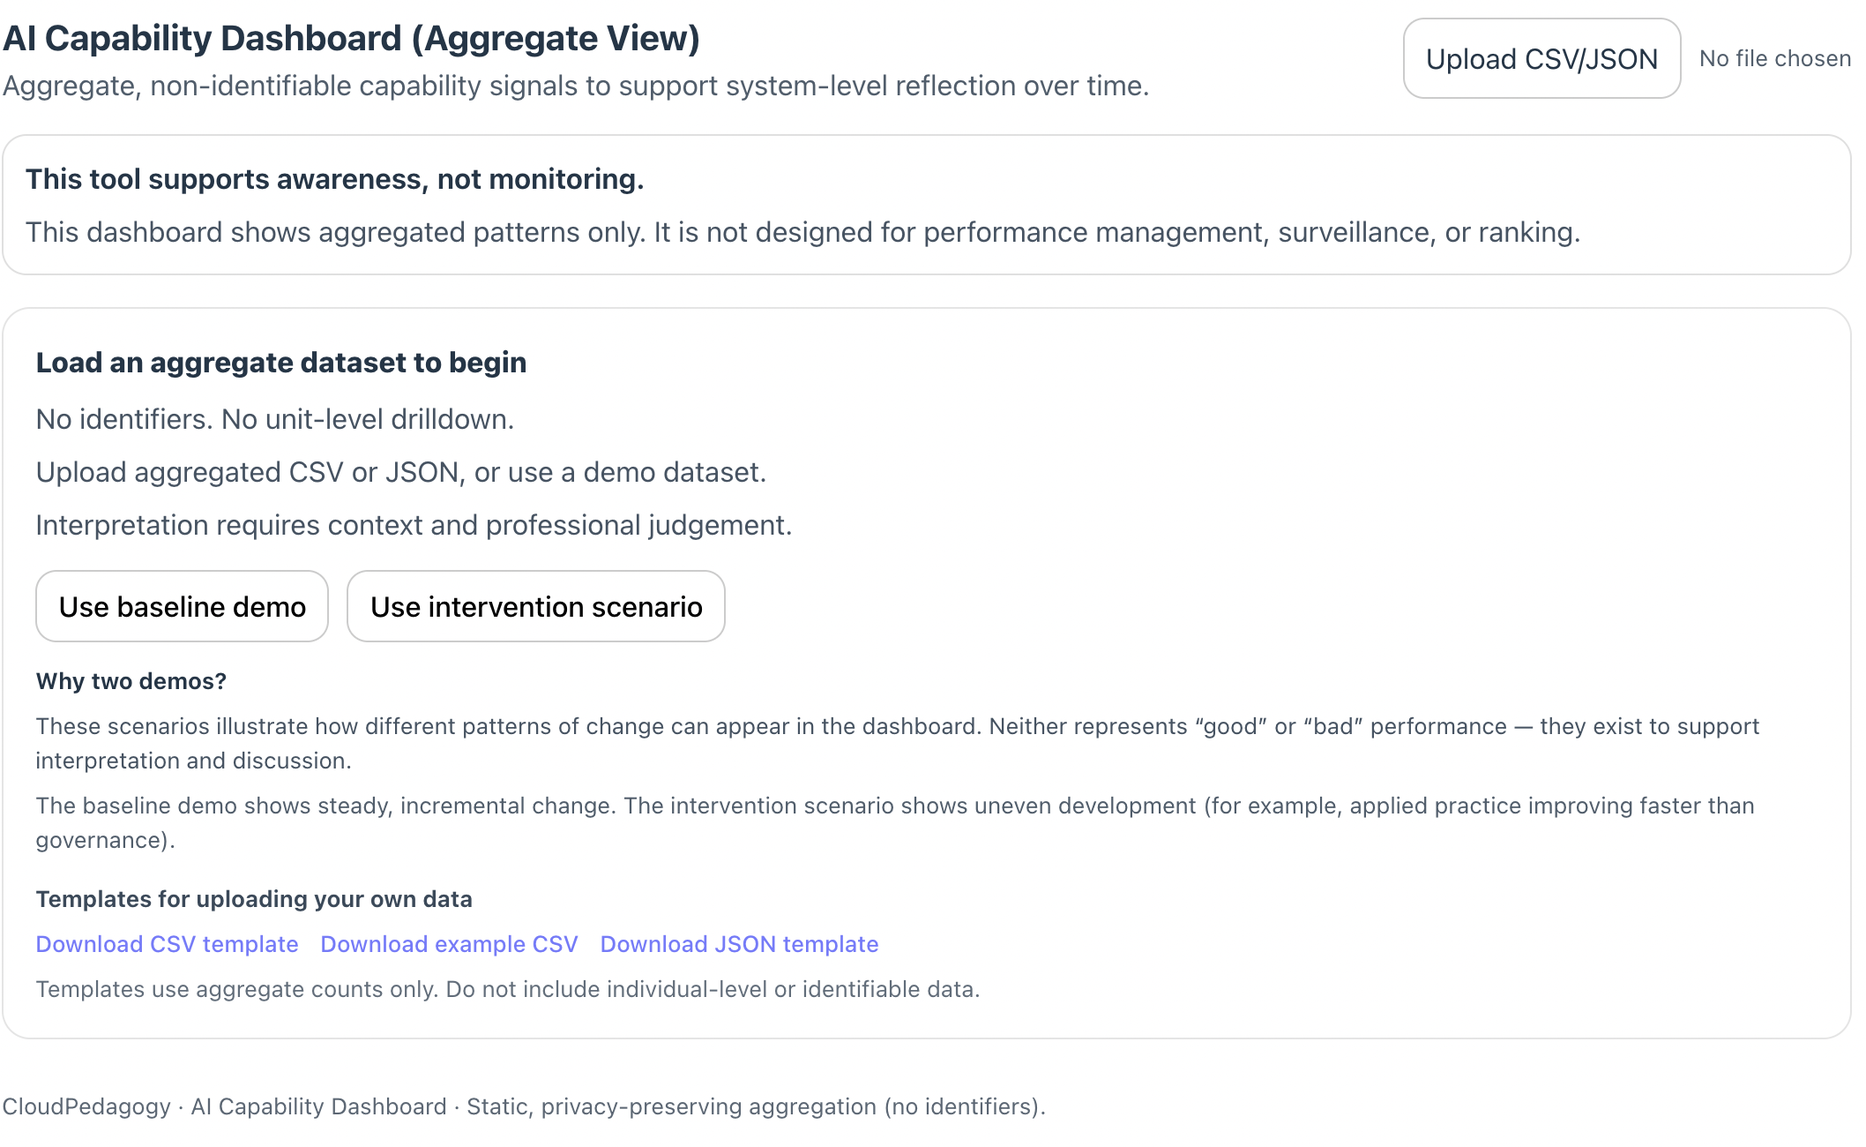
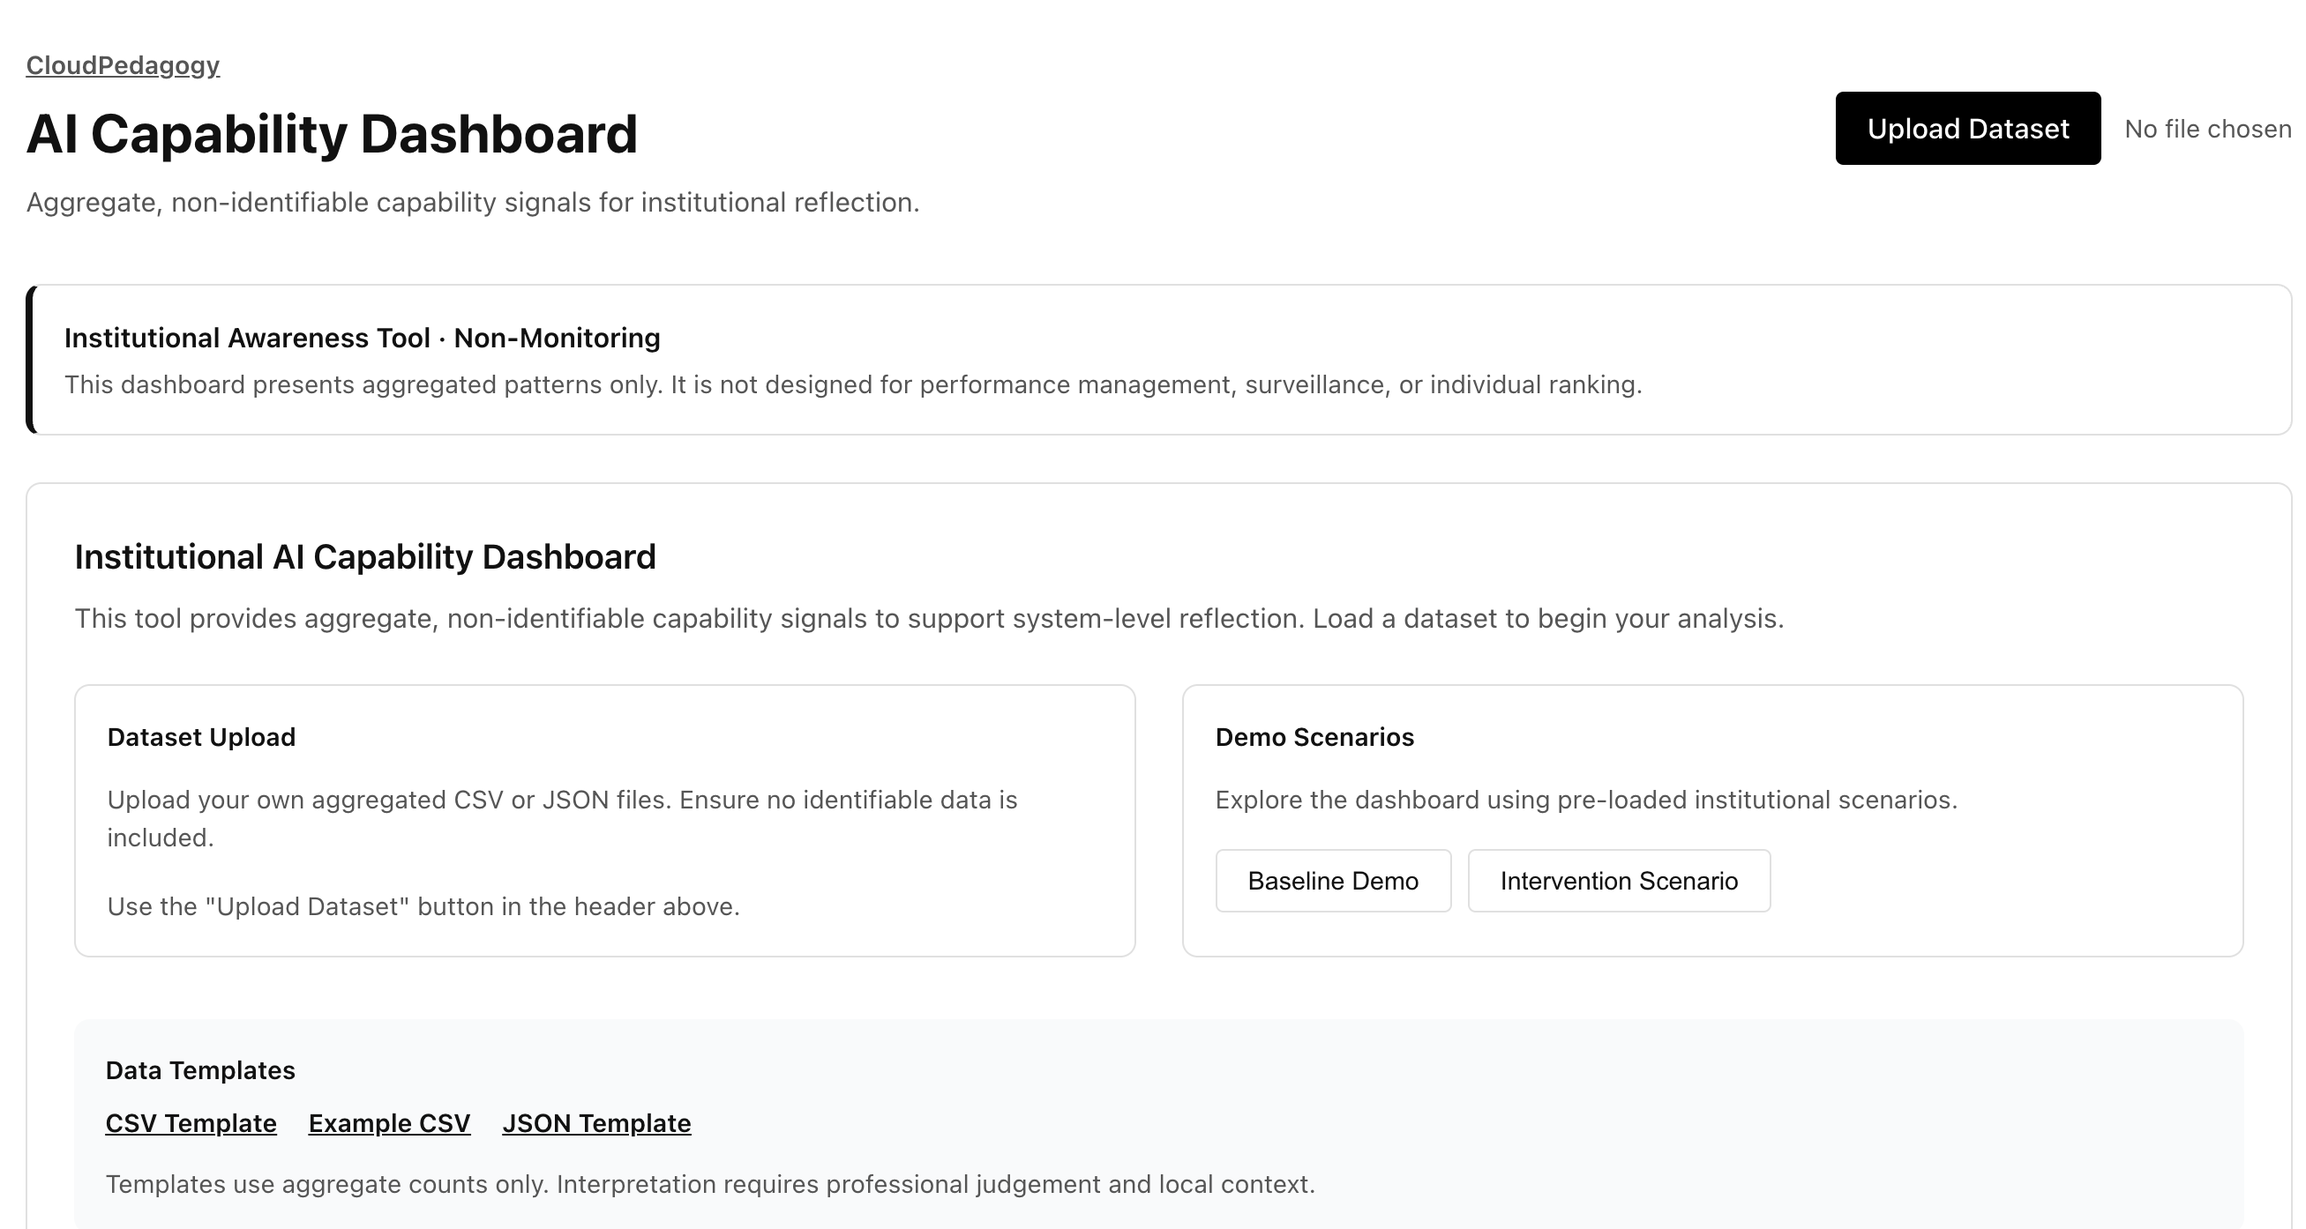
UI standardisation: applied minimal design system and consistent styling

diff --git a/src/views/OverviewView.tsx b/src/views/OverviewView.tsx
@@ -8,8 +8,9 @@ import {
   Tooltip,
   Legend,
   CartesianGrid,
+  ReferenceLine,
 } from "recharts"
-import type { DomainDistribution } from "../engine/aggregate"
+import { type DomainDistribution, identifyGaps, computeDatasetAverageIndex } from "../engine/aggregate"
 import type { Signal } from "../engine/signals"
 import StatCard from "../components/StatCard"
 
@@ -29,9 +30,9 @@ const BAND_COLOURS = {
 } as const
 
 const BAND_LABELS: Record<keyof typeof BAND_COLOURS, string> = {
-  emerging: "Emerging",
+  emerging: "Low",
   developing: "Developing",
-  embedded: "Embedded",
+  embedded: "Strong",
 }
 
 function formatNumber(n: number) {
@@ -55,8 +56,57 @@ function tooltipValueFormatter(value: any, name: any) {
 }
 
 export default function OverviewView(props: Props) {
+  const avgIndex = computeDatasetAverageIndex(props.dists)
+  const gaps = identifyGaps(props.dists)
+
   return (
     <div style={{ display: "grid", gap: 24 }}>
+      {/* Insight Layer: Gaps & Benchmarks */}
+      {gaps.length > 0 && (
+        <div className="cp-card cp-print-keep" style={{ margin: 0, padding: 20, borderLeft: "4px solid #111111", background: "#f9fafb" }}>
+          <div className="semibold" style={{ display: "flex", alignItems: "center", gap: 8 }}>
+            <span style={{ fontSize: "1.2rem" }}>⚠</span> Capability Maturity Gaps
+          </div>
+          <p className="text-secondary text-small" style={{ marginTop: 8, marginBottom: 0 }}>
+            The following domains are currently performing more than 15% below the active dataset average index (avg = {avgIndex}):
+            <div style={{ display: "flex", gap: 8, marginTop: 12 }}>
+              {gaps.map(g => (
+                <span key={g} className="text-small semibold" style={{ padding: "4px 10px", background: "#EEE", borderRadius: 4 }}>{g}</span>
+              ))}
+            </div>
+          </p>
+        </div>
+      )}
+
+      {/* Key Insights Panel */}
+      <div className="cp-card cp-print-keep" style={{ margin: 0, padding: 20, borderLeft: "4px solid var(--color-text-primary)", background: "#ffffff" }}>
+        <h3 className="semibold" style={{ fontSize: "0.9rem", marginBottom: 12 }}>Institutional Insights</h3>
+        <div style={{ display: "grid", gridTemplateColumns: "1fr 1fr", gap: 16 }}>
+          {(() => {
+            const domainScores = props.dists.map(d => ({
+              domain: d.domain,
+              weighted: (d.embedded * 3 + d.developing * 2 + d.emerging * 1) / (d.embedded + d.developing + d.emerging || 1)
+            })).sort((a, b) => b.weighted - a.weighted);
+            
+            const strongest = domainScores[0];
+            const weakest = domainScores[domainScores.length - 1];
+
+            return (
+              <>
+                <div style={{ padding: 12, border: "1px solid #f3f4f6", borderRadius: 4 }}>
+                  <div className="text-muted text-small semibold uppercase tracking-wider">Strongest Domain</div>
+                  <div className="semibold" style={{ marginTop: 4 }}>{strongest.domain}</div>
+                </div>
+                <div style={{ padding: 12, border: "1px solid #f3f4f6", borderRadius: 4 }}>
+                  <div className="text-muted text-small semibold uppercase tracking-wider">Weakest Domain</div>
+                  <div className="semibold" style={{ marginTop: 4 }}>{weakest.domain}</div>
+                </div>
+              </>
+            );
+          })()}
+        </div>
+      </div>
+
       {/* Stats */}
       <div style={{ display: "grid", gridTemplateColumns: "repeat(auto-fit, minmax(200px, 1fr))", gap: 16 }}>
         <StatCard label="Total count (N)" value={formatNumber(props.total)} />
@@ -115,6 +165,16 @@ export default function OverviewView(props: Props) {
               <Bar dataKey="emerging" stackId="a" fill={BAND_COLOURS.emerging} radius={[0, 0, 0, 0]} />
               <Bar dataKey="developing" stackId="a" fill={BAND_COLOURS.developing} radius={[0, 0, 0, 0]} />
               <Bar dataKey="embedded" stackId="a" fill={BAND_COLOURS.embedded} radius={[0, 0, 0, 0]} />
+
+              {/* Dataset Benchmark Line (Average Count/Scale approximation for distribution view) */}
+              {/* Note: ReferenceLines in stacked bars compare against stack totals. 
+                  In this view, we want to show the 'average' height as a target. */}
+              <ReferenceLine 
+                y={props.total / props.dists.length} 
+                stroke="#111" 
+                strokeDasharray="3 3" 
+                label={{ position: 'top', value: 'Avg distribution', fill: '#111', fontSize: 11, fontWeight: 600 }} 
+              />
             </BarChart>
           </ResponsiveContainer>
         </div>

diff --git a/src/views/TrendsView.tsx b/src/views/TrendsView.tsx
@@ -10,7 +10,7 @@ import {
   CartesianGrid,
 } from "recharts"
 import type { AggregatedRow, Domain } from "../engine/schema"
-import { computePeriodDistributions, computeTrendSeries, getDomainKeys } from "../engine/trends"
+import { computePeriodDistributions, computeTrendSeries, getDomainKeys, calculateTrendDeltas } from "../engine/trends"
 
 type Props = {
   rows: AggregatedRow[]
@@ -34,6 +34,7 @@ export default function TrendsView(props: Props) {
   const periodDists = computePeriodDistributions(props.rows)
   const series = computeTrendSeries(periodDists)
   const domains = getDomainKeys() as Domain[]
+  const deltas = calculateTrendDeltas(series)
 
   if (periodDists.length < 2) {
     return (
@@ -49,8 +50,36 @@ export default function TrendsView(props: Props) {
     )
   }
 
+  // Trajectory logic (descriptive only)
+  const totalDelta = deltas.reduce((acc, d) => acc + d.delta, 0)
+  const improvedCount = deltas.filter(d => d.delta > 0).length
+  const regressedCount = deltas.filter(d => d.delta < 0).length
+
   return (
     <div style={{ display: "grid", gap: 24 }}>
+      {/* Trend Insights */}
+      <div style={{ display: "grid", gridTemplateColumns: "1fr 1fr", gap: 16 }}>
+        <div className="cp-card cp-print-keep" style={{ margin: 0, padding: 20, background: "#f9fafb" }}>
+          <div className="semibold text-small">Longitudinal Trajectory</div>
+          <p className="text-secondary text-small" style={{ marginTop: 8, marginBottom: 0 }}>
+            Across the last two periods, <b>{improvedCount}</b> domains showed score progression and <b>{regressedCount}</b> showed regression.
+            The cumulative weighted index shift is <b>{totalDelta > 0 ? "+" : ""}{totalDelta.toFixed(2)}</b>.
+          </p>
+        </div>
+        <div className="cp-card cp-print-keep" style={{ margin: 0, padding: 20 }}>
+          <div className="text-small">
+            {deltas.map(d => (
+              <div key={d.domain} style={{ display: "flex", justifyContent: "space-between", alignItems: "center", marginBottom: 4 }}>
+                <span className="text-secondary" style={{ fontSize: 12 }}>{d.domain}</span>
+                <span className="semibold" style={{ fontSize: 13, color: d.delta > 0 ? "#059669" : d.delta < 0 ? "#dc2626" : "#666" }}>
+                  {d.delta > 0 ? "▲" : d.delta < 0 ? "▼" : "—"} {d.delta > 0 ? "+" : ""}{d.delta}
+                </span>
+              </div>
+            ))}
+          </div>
+        </div>
+      </div>
+
       <div className="cp-card" style={{ margin: 0, padding: 24 }}>
         <h2 style={{ fontSize: "1.1rem", marginBottom: 8 }}>Trends over Time (Weighted Index)</h2>
         <p className="text-secondary text-small" style={{ marginBottom: 24 }}>

diff --git a/src/engine/aggregate.ts b/src/engine/aggregate.ts
@@ -59,3 +59,25 @@ export function bandWeightedIndex(dist: DomainDistribution): number {
   const w = (dist.emerging * 1 + dist.developing * 2 + dist.embedded * 3) / dist.total
   return Number(w.toFixed(2))
 }
+
+export function computeDatasetAverageIndex(dists: DomainDistribution[]): number {
+  const activeDists = dists.filter(d => d.total > 0)
+  if (activeDists.length === 0) return 0
+  const total = activeDists.reduce((acc, d) => acc + bandWeightedIndex(d), 0)
+  return Number((total / activeDists.length).toFixed(2))
+}
+
+export function identifyGaps(dists: DomainDistribution[], threshold = 0.15): Domain[] {
+  const avg = computeDatasetAverageIndex(dists)
+  if (avg === 0) return []
+  
+  const gaps: Domain[] = []
+  for (const d of dists) {
+    if (d.total === 0) continue
+    const index = bandWeightedIndex(d)
+    if (index < avg * (1 - threshold)) {
+      gaps.push(d.domain)
+    }
+  }
+  return gaps
+}

diff --git a/src/engine/trends.ts b/src/engine/trends.ts
@@ -79,9 +79,31 @@ export function computeTrendSeries(periodDists: PeriodDistribution[]): TrendPoin
   })
 }
 
-/**
- * Helpful for legend/tooltip ordering and picking lines to show.
- */
 export function getDomainKeys(): Domain[] {
   return [...CANONICAL_DOMAINS]
+}
+
+export type TrendDelta = {
+  domain: Domain
+  current: number
+  previous: number
+  delta: number
+}
+
+export function calculateTrendDeltas(series: TrendPoint[]): TrendDelta[] {
+  if (series.length < 2) return []
+
+  const current = series[series.length - 1]
+  const previous = series[series.length - 2]
+
+  return CANONICAL_DOMAINS.map(d => {
+    const currVal = Number(current[d] ?? 0)
+    const prevVal = Number(previous[d] ?? 0)
+    return {
+      domain: d,
+      current: currVal,
+      previous: prevVal,
+      delta: Number((currVal - prevVal).toFixed(2))
+    }
+  })
 }

diff --git a/README.md b/README.md
@@ -2,6 +2,25 @@
 
 A lightweight, browser-based, **aggregate dashboard** for examining patterns and trends in AI capability over time, grounded in the **CloudPedagogy AI Capability Framework**.
 
+## 🔗 Role in the CloudPedagogy Ecosystem
+
+**Phase:** Phase 3 — Capability System
+
+**Role:**
+Aggregates and visualizes organizational AI capability signals to surface structural trends, maturity gaps, and longitudinal benchmarks.
+
+**Upstream Inputs:**
+Aggregate datasets or individual JSON snapshots from the **Capability Assessment Tool**.
+
+**Downstream Outputs:**
+Provides multi-dimensional insight for the **Gaps & Risk** diagnostic and strategic institutional review committees.
+
+**Does NOT:**
+- Perform granular individual performance tracking.
+- Test organizational resilience against specific risk scenarios (this is for the Stress Test).
+
+For a full system overview, see: [SYSTEM_OVERVIEW.md](../SYSTEM_OVERVIEW.md)
+
 The AI Capability Signals Dashboard supports **sense-making, reflection, and governance-aligned conversation** about how AI capability is developing across an organisation — without surveillance, benchmarking, or individual assessment.
 
 It is designed to help teams **notice patterns**, **surface tensions**, and **ask better questions**, not to measure performance or enforce compliance.
@@ -55,10 +74,27 @@ The production build will be generated in the `dist/` directory and can be deplo
 
 ## 🔐 Privacy & Security
 
-- **Fully local**: All data remains in the user's browser  
-- **No backend**: No external API calls or database storage  
-- **Privacy-preserving**: No tracking or data exfiltration  
-- Suitable for use in sensitive organisational and governance contexts  
+### Strategic Context
+- **Aggregation-Only**: Designed to consolidate non-identifiable capability data from Assessment snapshots.
+- **Internal Benchmarking**: Compares domains against the active dataset average to identify structural lags.
+- **Gap Detection**: Visually highlights "Maturity Gaps" where specific domains underperform relative to the institution.
+- **Longitudinal Insight**: Provides trajectory summaries and delta tracking across multiple periods.
+
+---
+
+## 📊 Strategic Evaluation Features
+
+This dashboard has been strengthened to serve as the primary insight layer for institutional capability:
+
+### 1. Maturity Gap Identification
+The dashboard automatically identifies "Gaps" — domains where the weighted maturity index is more than **15% below the dataset average**. This allows institutions to prioritize investment where structural weakness is highest.
+
+### 2. Dataset-Level Benchmarking
+The overview chart includes a target benchmark line representing the average distribution across all domains. This provides an immediate visual baseline for internal comparison.
+
+### 3. Trend Delta Indicators
+The trends view includes numerical 🔼/🔽 indicators showing the precise shift in maturity index between the two most recent periods, categorized into **Improved** and **Regressed** trajectory summaries.
+ational and governance contexts  
 
 ---
 
@@ -127,11 +163,16 @@ These domains act as **lenses**, not checklists.
    - No individual-level data is required or supported  
 3. Optionally add **timepoints** to compare capability signals over time  
 4. View the dashboard to explore:
-   - domain-level patterns and trends  
-   - emerging imbalances or tensions  
-   - areas of acceleration, stagnation, or lag  
-5. Use the built-in **reflective prompts** to support discussion, sense-making, and governance conversations  
-6. Export or print summaries for committee papers, workshops, or documentation  
+   - `[x]` Engine & Calculation Updates
+    - `[x]` Update `src/engine/aggregate.ts` with gap detection logic (15% threshold)
+    - `[x]` Update `src/engine/trends.ts` with delta and trajectory calculations
+- `[x]` UI: Gaps & Benchmarks
+    - `[x]` Update `src/views/OverviewView.tsx` with Gap Overlay and Dataset Benchmark Line
+- `[x]` UI: Trends & Insights
+    - `[x]` Update `src/views/TrendsView.tsx` with Trend Delta Indicators and Insight Summary Panel
+- `[x]` Finalisation
+    - `[x]` Update `README.md` with insight layer documentation
+  
 
 The tool is designed to be used **collectively and deliberatively**, not mechanically.
 

diff --git a/PROJECT_SPEC.md b/PROJECT_SPEC.md
@@ -1,0 +1,55 @@
+# PROJECT_SPEC: cloudpedagogy-ai-capability-dashboard
+
+## 1. Repo Name
+`cloudpedagogy-ai-capability-dashboard`
+
+## 2. One-Sentence Purpose
+A visualization platform for aggregated AI capability data, showing growth and maturity across domains and time.
+
+## 3. Problem the App Solves
+Difficulty in synthesizing disparately collected assessment results at an institutional level; provides the "Heatmap" and trend analysis needed for strategic decision-making.
+
+## 4. Primary User / Audience
+Institutional leaders, department heads, and strategy teams.
+
+## 5. Core Role in the CloudPedagogy Ecosystem
+The "Insight Layer" for the capability framework; visualizes aggregated data generated by the `ai-capability-assessment` tool or institutional surveys.
+
+## 6. Main Entities / Data Structures
+- **Domain**: Standard capability domains (Awareness, Co-agency, Practice, Ethics, Governance, Renewal).
+- **Band**: Maturity levels (Emerging, Developing, Embedded).
+- **AggregatedRow**: Data point tracking Domain, Band, and Count for a specific time period.
+
+## 7. Main User Workflows
+1. **Data Ingestion**: Import aggregated CSV or JSON datasets conforming to the dashboard schema.
+2. **Visual Analysis**: Toggle between Radar (maturity), Bar (counts), and Line (trends) charts.
+3. **Filtering**: Refine views by domain, band, or context tags.
+
+## 8. Current Features
+- In-browser dataset ingestion (no backend storage).
+- Radar charts for cross-domain maturity profile.
+- Bar charts for distribution analysis.
+- Tag-based data filtering.
+- Visual theme aligned with CloudPedagogy aesthetics.
+
+## 9. Stubbed / Partial / Incomplete Features
+- Longitudinal "Trend" lines are supported in the data model but listed as potentially secondary in some prototype views.
+
+## 10. Import / Export and Storage Model
+- **Storage**: Stateless; ignores local persistence to maximize privacy and modularity.
+- **Import**: CSV and JSON arrays conforming to `AggregatedRow[]`.
+
+## 11. Relationship to Other CloudPedagogy Apps
+Primary consumer of data produced by `ai-capability-assessment` and other data-collection tools in the suite.
+
+## 12. Potential Overlap or Duplication Risks
+Might overlap with generic business intelligence (BI) tools, but uniquely hardcodes CloudPedagogy domain definitions and band mappings.
+
+## 13. Distinctive Value of This App
+"Privacy-preserving by design"—it operates exclusively on anonymized, aggregated counts, ensuring compliance with institutional data policies.
+
+## 14. Recommended Future Enhancements
+(Inferred) Automated "Gap Identification" reports; benchmark comparison against synthetic institutional averages.
+
+## 15. Anything Unclear or Inferred from Repo Contents
+The exact mapping between raw 1-5 assessment scores and the "Emerging-Embedded" bands is inferred to be handled during the aggregation step before loading into the dashboard.

diff --git a/INSTRUCTIONS.md b/INSTRUCTIONS.md
@@ -1,0 +1,48 @@
+# AI Capability Dashboard — User Instructions
+
+---
+### 2. What This Tool Does
+This dashboard aggregates individual capability assessments into a system-wide view. It provides leadership with a bird's-eye view of organizational AI readiness, highlighting broad trends, strong domains, and institutional weaknesses.
+
+---
+### 3. Role in the Ecosystem
+- **Phase:** Phase 3 — Capability System
+- **Role:** Multi-stakeholder view of capability benchmarks and trends.
+- **Reference:** [../SYSTEM_OVERVIEW.md](../SYSTEM_OVERVIEW.md)
+
+---
+### 4. When to Use This Tool
+- When you need to understand the big picture of AI capability across multiple teams.
+- When reporting to committees or leadership on the progress of AI literacy initiatives.
+- To switch to "Reflective Mode" to generate discussion prompts based on aggregate data.
+
+---
+### 5. Inputs
+- Takes aggregated datasets of JSON files produced by the **Capability Assessment** tool.
+
+---
+### 6. How to Use (Step-by-Step)
+1. Load your institutional or departmental assessment dataset.
+2. View the overall distribution across the six core capability domains.
+3. Check the "Institutional Insights" panel to immediately determine the mathematically strongest and weakest domains.
+4. Switch the interface from "Descriptive" to "Reflective" mode.
+5. Review the 'Signals Workspace' to access guided discussion prompts based on the detected patterns.
+
+---
+### 7. Key Outputs
+- High-level, aggregated visualizations of systemic capability marked as Low, Developing, or Strong.
+- Actionable discussion prompts for leadership based on the data shape.
+
+---
+### 8. How It Connects to Other Tools
+- **Upstream:** Consumes data entirely produced by the **Capability Assessment** tool.
+- **Downstream:** Signals identified here usually trigger deep-dives using the **Gaps & Risk** diagnostic tool.
+
+---
+### 9. Limitations
+- Does not identify the specific individuals failing or succeeding; it relies on aggregate patterns to protect privacy.
+- It is a descriptive engine and does not prescribe specific policy fixes.
+
+---
+### 10. Tips
+- Always use the "Reflective" mode during meetings to turn dry data into productive inquiries.
